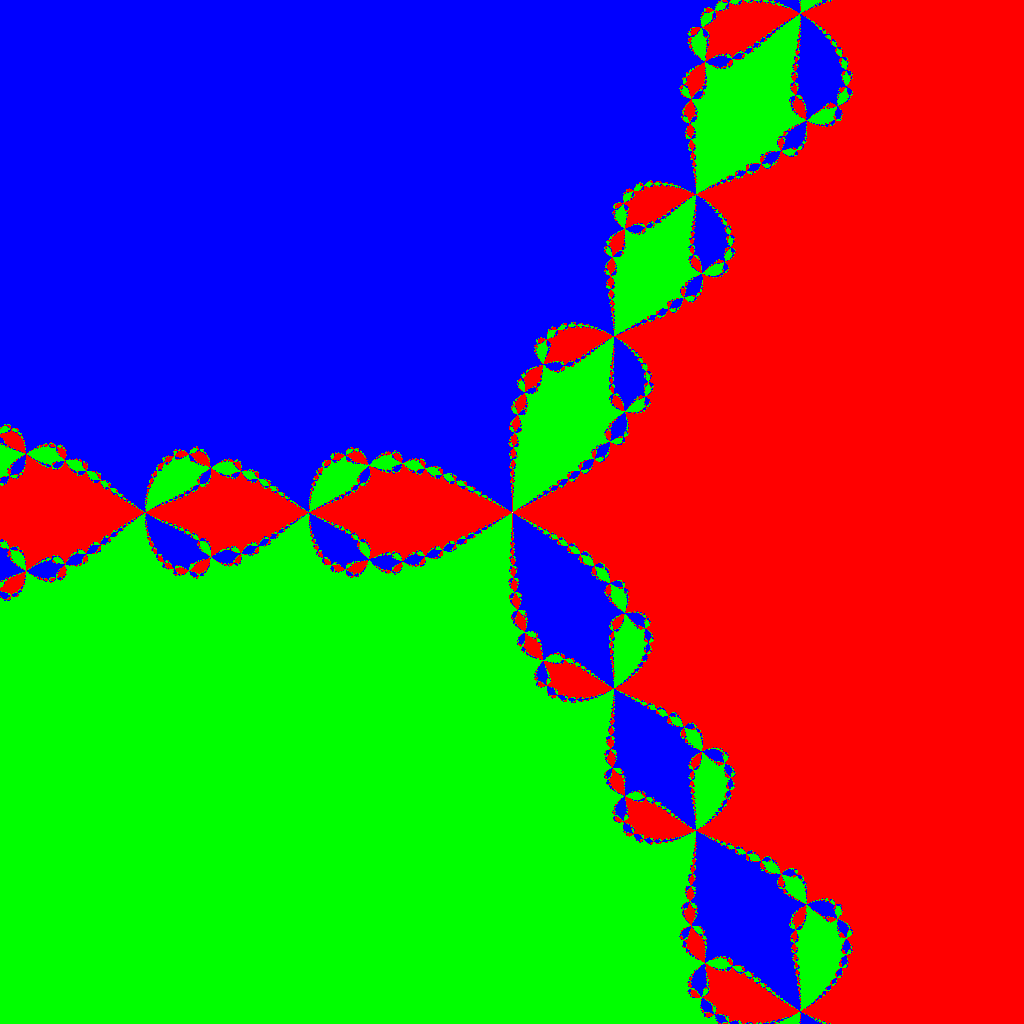
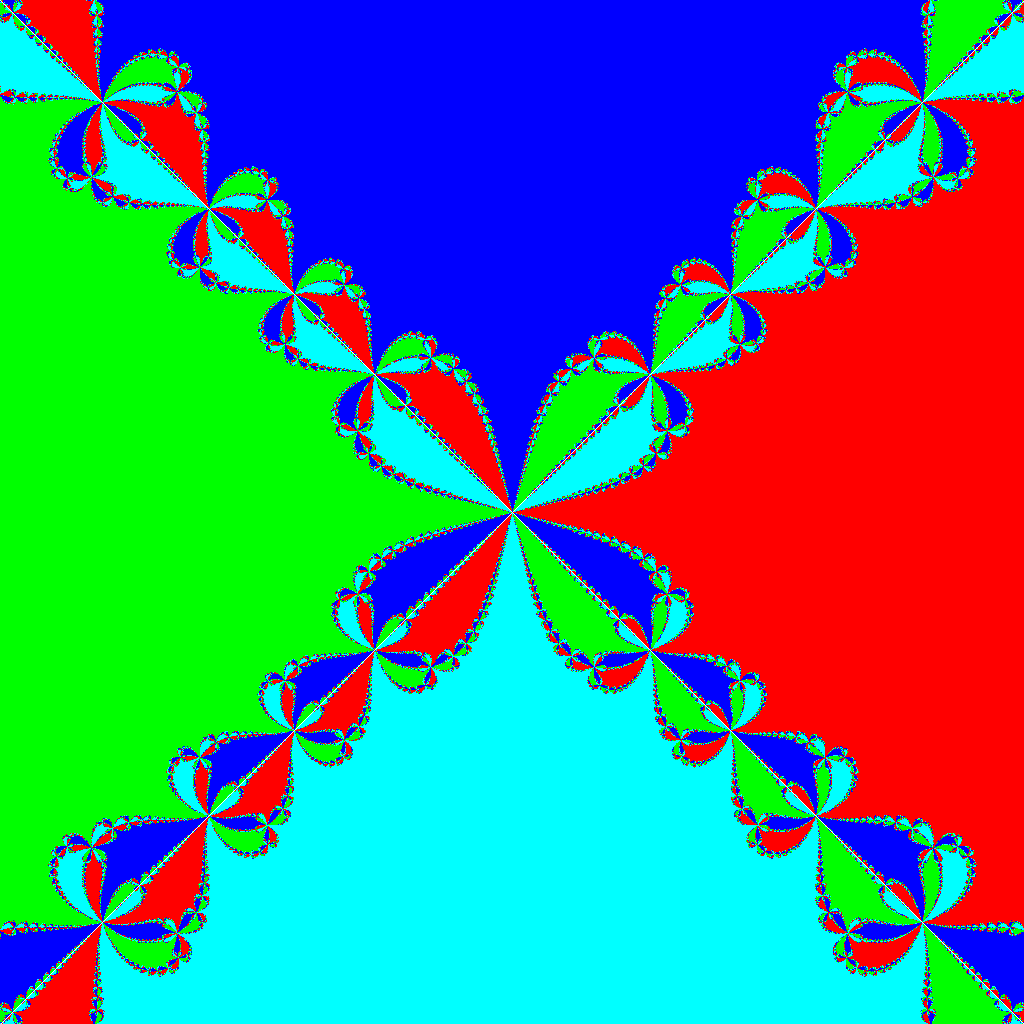
fixed/ch3/ex7/ex10

diff --git a/ch3/ex7/newton.go b/ch3/ex7/newton.go
@@ -30,26 +30,31 @@ func main() {
 
 func mandelbrot(z complex128) color.Color {
     iterations := 0
-    palette := []color.Color{color.RGBA{255, 0, 0, 255}, color.RGBA{0, 255, 0, 255}, color.RGBA{0, 0, 255, 255}}
+    palette := []color.Color{color.RGBA{255, 0, 0, 255}, color.RGBA{0, 255, 0, 255}, color.RGBA{0, 0, 255, 255}, color.RGBA{0, 255, 255, 255}}
     // answers := make([]complex128, 0, 4)
-    x := real(z)
-    y := imag(z)
+    // x := real(z)
+    // y := imag(z)
     for {
         iterations++
-        a := x*x*x - 3.0*x*y*y - 1
-        b := 3.0*x*x*y - y*y*y
-        c := 3.0 * (x*x - y*y)
-        d := 6.0 * x * y
-        x = x - (a*c+b*d)/(c*c+d*d)
-        y = y - (b*c-a*d)/(c*c+d*d)
-        if math.Abs((x-1)) <= eps && math.Abs(y) <= eps {
+        // a := x*x*x - 3.0*x*y*y - 1
+        // b := 3.0*x*x*y - y*y*y
+        // c := 3.0 * (x*x - y*y)
+        // d := 6.0 * x * y
+        // x = x - (a*c+b*d)/(c*c+d*d)
+        // y = y - (b*c-a*d)/(c*c+d*d)
+        z -= (z*z*z*z - 1) / (4.0 * z * z * z)
+        a := complex(1, 0)
+        b := complex(-1, 0)
+        c := complex(0, -1)
+        d := complex(0, 1)
+        if math.Abs(real(z)-real(a)) <= eps && math.Abs(imag(z)-imag(a)) <= eps {
             return palette[0]
-        } else if math.Abs((x + 0.5)) <= eps {
-            if math.Abs(y-(math.Sqrt(3)*0.5)) <= eps {
-                return palette[1]
-            } else if math.Abs(y+(math.Sqrt(3)*0.5)) <= eps {
-                return palette[2]
-            }
+        } else if math.Abs(real(z)-real(b)) <= eps && math.Abs(imag(z)-imag(b)) <= eps {
+            return palette[1]
+        } else if math.Abs(real(z)-real(c)) <= eps && math.Abs(imag(z)-imag(c)) <= eps {
+            return palette[2]
+        } else if math.Abs(real(z)-real(d)) <= eps && math.Abs(imag(z)-imag(d)) <= eps {
+            return palette[3]
         }
         if iterations >= 1000 {
             break

diff --git a/ch4/ex14/github/github.go b/ch4/ex14/github/github.go
@@ -1,0 +1,50 @@
+package github
+
+import (
+	"encoding/json"
+	"fmt"
+	"net/http"
+	"net/url"
+	"strings"
+	"time"
+)
+
+const IssuesURL = "https://api.github.com/search/issues"
+
+type IssuesSearchResult struct {
+	TotalCount int `json:"total_count"`
+	Items      []*Issue
+}
+
+type Issue struct {
+	Number    int
+	HTMLURL   string `json:"html_url"`
+	Title     string
+	State     string
+	User      *User
+	CreatedAt time.Time `json:"created_at"`
+	Body      string
+}
+
+type User struct {
+	Login   string
+	HTMLURL string `json:"html_url"`
+}
+
+func SearchIssues(terms []string) (*IssuesSearchResult, error) {
+	q := url.QueryEscape(strings.Join(terms, " "))
+	resp, err := http.Get(IssuesURL + "?q=" + q)
+	if err != nil {
+		return nil, err
+	}
+	defer resp.Body.Close()
+	if resp.StatusCode != http.StatusOK {
+		return nil, fmt.Errorf("search query failed: %s", resp.Status)
+	}
+
+	var result IssuesSearchResult
+	if err := json.NewDecoder(resp.Body).Decode(&result); err != nil {
+		return nil, err
+	}
+	return &result, nil
+}

diff --git a/ch4/ex14/issueServer.go b/ch4/ex14/issueServer.go
@@ -1,0 +1,42 @@
+package main
+
+import (
+	"./github"
+	"html/template"
+	"log"
+	"os"
+	"time"
+)
+
+const templ = `{{.TotalCount}} issues:
+{{range .Items}}-------------------------------------
+Number: {{.Number}}
+User:   {{.User.Login}}
+Title:  {{.Title | printf "%.64s"}}
+Age:    {{.CreatedAt | daysAgo}} days
+{{end}}`
+
+func daysAgo(t time.Time) int {
+	return int(time.Since(t).Hours() / 24)
+}
+
+var issueList = template.Must(template.New("issuelist").
+	Funcs(template.FuncMap{"daysAgo": daysAgo}).
+	Parse(`
+		<h1>{{.TotalCount}} issues:</h1>
+{{range .Items}}-------------------------------------
+Number: {{.Number}}
+User:   {{.User.Login}}
+Title:  {{.Title | printf "%.64s"}}
+Age:    {{.CreatedAt | daysAgo}} days
+{{end}}`))
+
+func main() {
+	result, err := github.SearchIssues(os.Args[1:])
+	if err != nil {
+		log.Fatal(err)
+	}
+	if err := report.Execute(os.Stdout, result); err != nil {
+		log.Fatal(err)
+	}
+}

diff --git a/ch3/ex10/comma.go b/ch3/ex10/comma.go
@@ -1,25 +1,26 @@
-package main
+package comma
 
 import "bytes"
-import "fmt"
 
 func comma(s string) string {
 	if len(s) <= 3 {
 		return s
 	}
 	var buf bytes.Buffer
-	for i := 0; i < len(s); i++ {
-		if len(s)%3 == 0 {
-			break
-		}
-		if (len(s)-i)%3 == 0 {
-			buf.WriteString(s[:i])
-			buf.WriteString(",")
-			s = s[i:]
-			break
-		}
-	}
-
+	// for i := 0; i < len(s); i++ {
+	// 	if len(s)%3 == 0 {
+	// 		break
+	// 	}
+	// 	if (len(s)-i)%3 == 0 {
+	// 		buf.WriteString(s[:i])
+	// 		buf.WriteString(",")
+	// 		s = s[i:]
+	// 		break
+	// 	}
+	// }
+	i := len(s) % 3
+	buf.WriteString(s[:i] + ",")
+	s = s[i:]
 	for j := 0; j < len(s); j++ {
 		buf.WriteByte(s[j])
 		if (j+1)%3 == 0 && (j+1) != len(s) {
@@ -27,10 +28,4 @@ func comma(s string) string {
 		}
 	}
 	return buf.String()
-}
-
-func main() {
-	s := "12345678987459299356"
-	fmt.Println("origin string: " + s)
-	fmt.Println("comma string: " + comma(s))
 }

diff --git a/ch3/ex10/testComma.go b/ch3/ex10/testComma.go
@@ -1,0 +1,22 @@
+package comma
+
+import "testing"
+
+func TestComma(t *testing.T) {
+	var tests = []struct {
+		digits   string
+		expected string
+	}{
+		{"", ""},
+		{"1", "1"},
+		{"123", "123"},
+		{"1234", "1,234"},
+		{"123456", "123,456"},
+		{"1234567", "1,234,567"},
+	}
+	for _, test := range tests {
+		if got := comma(test.digits); got != test.expected {
+			t.Errorf("IsWrongComma")
+		}
+	}
+}

diff --git a/ch3/issue/substring.go b/ch3/issue/substring.go
@@ -1,0 +1,14 @@
+package main
+
+import "fmt"
+
+func main() {
+	s := "left foot"
+	sub := s[2:5]
+	//sub[1] = 'y' //部分文字列も編集できない
+	//sub[0], sub[1] = sub[1], sub[0] //交換もできない
+	b := []byte(s)
+	sub_b := b[:3]
+	sub_b[0] = 'y'
+	fmt.Println(sub)
+}
